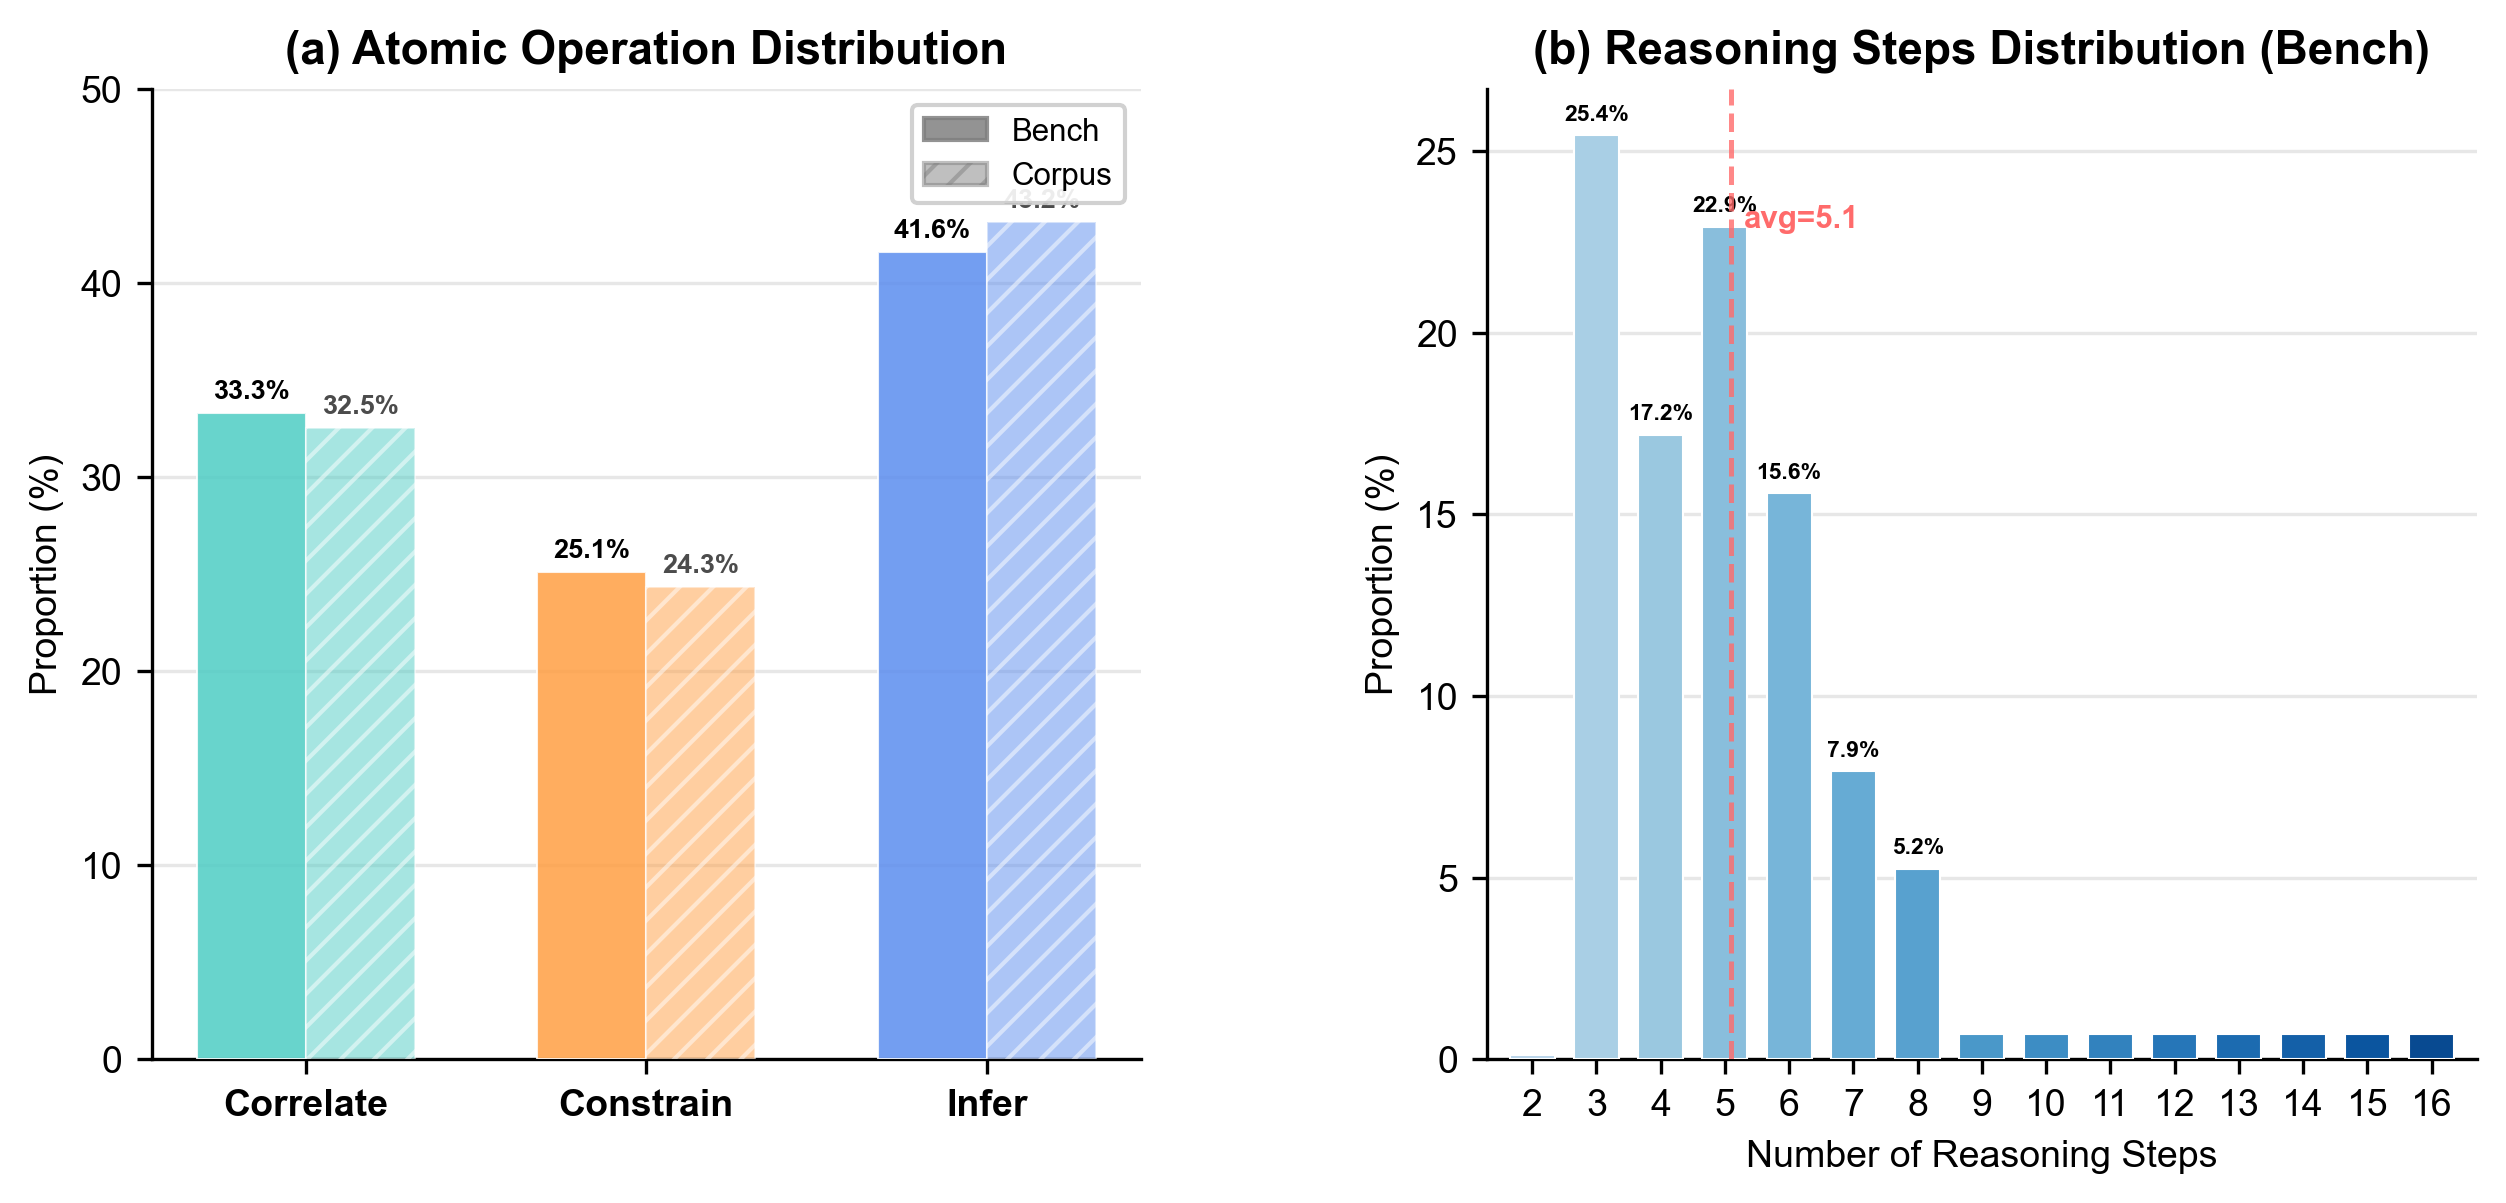
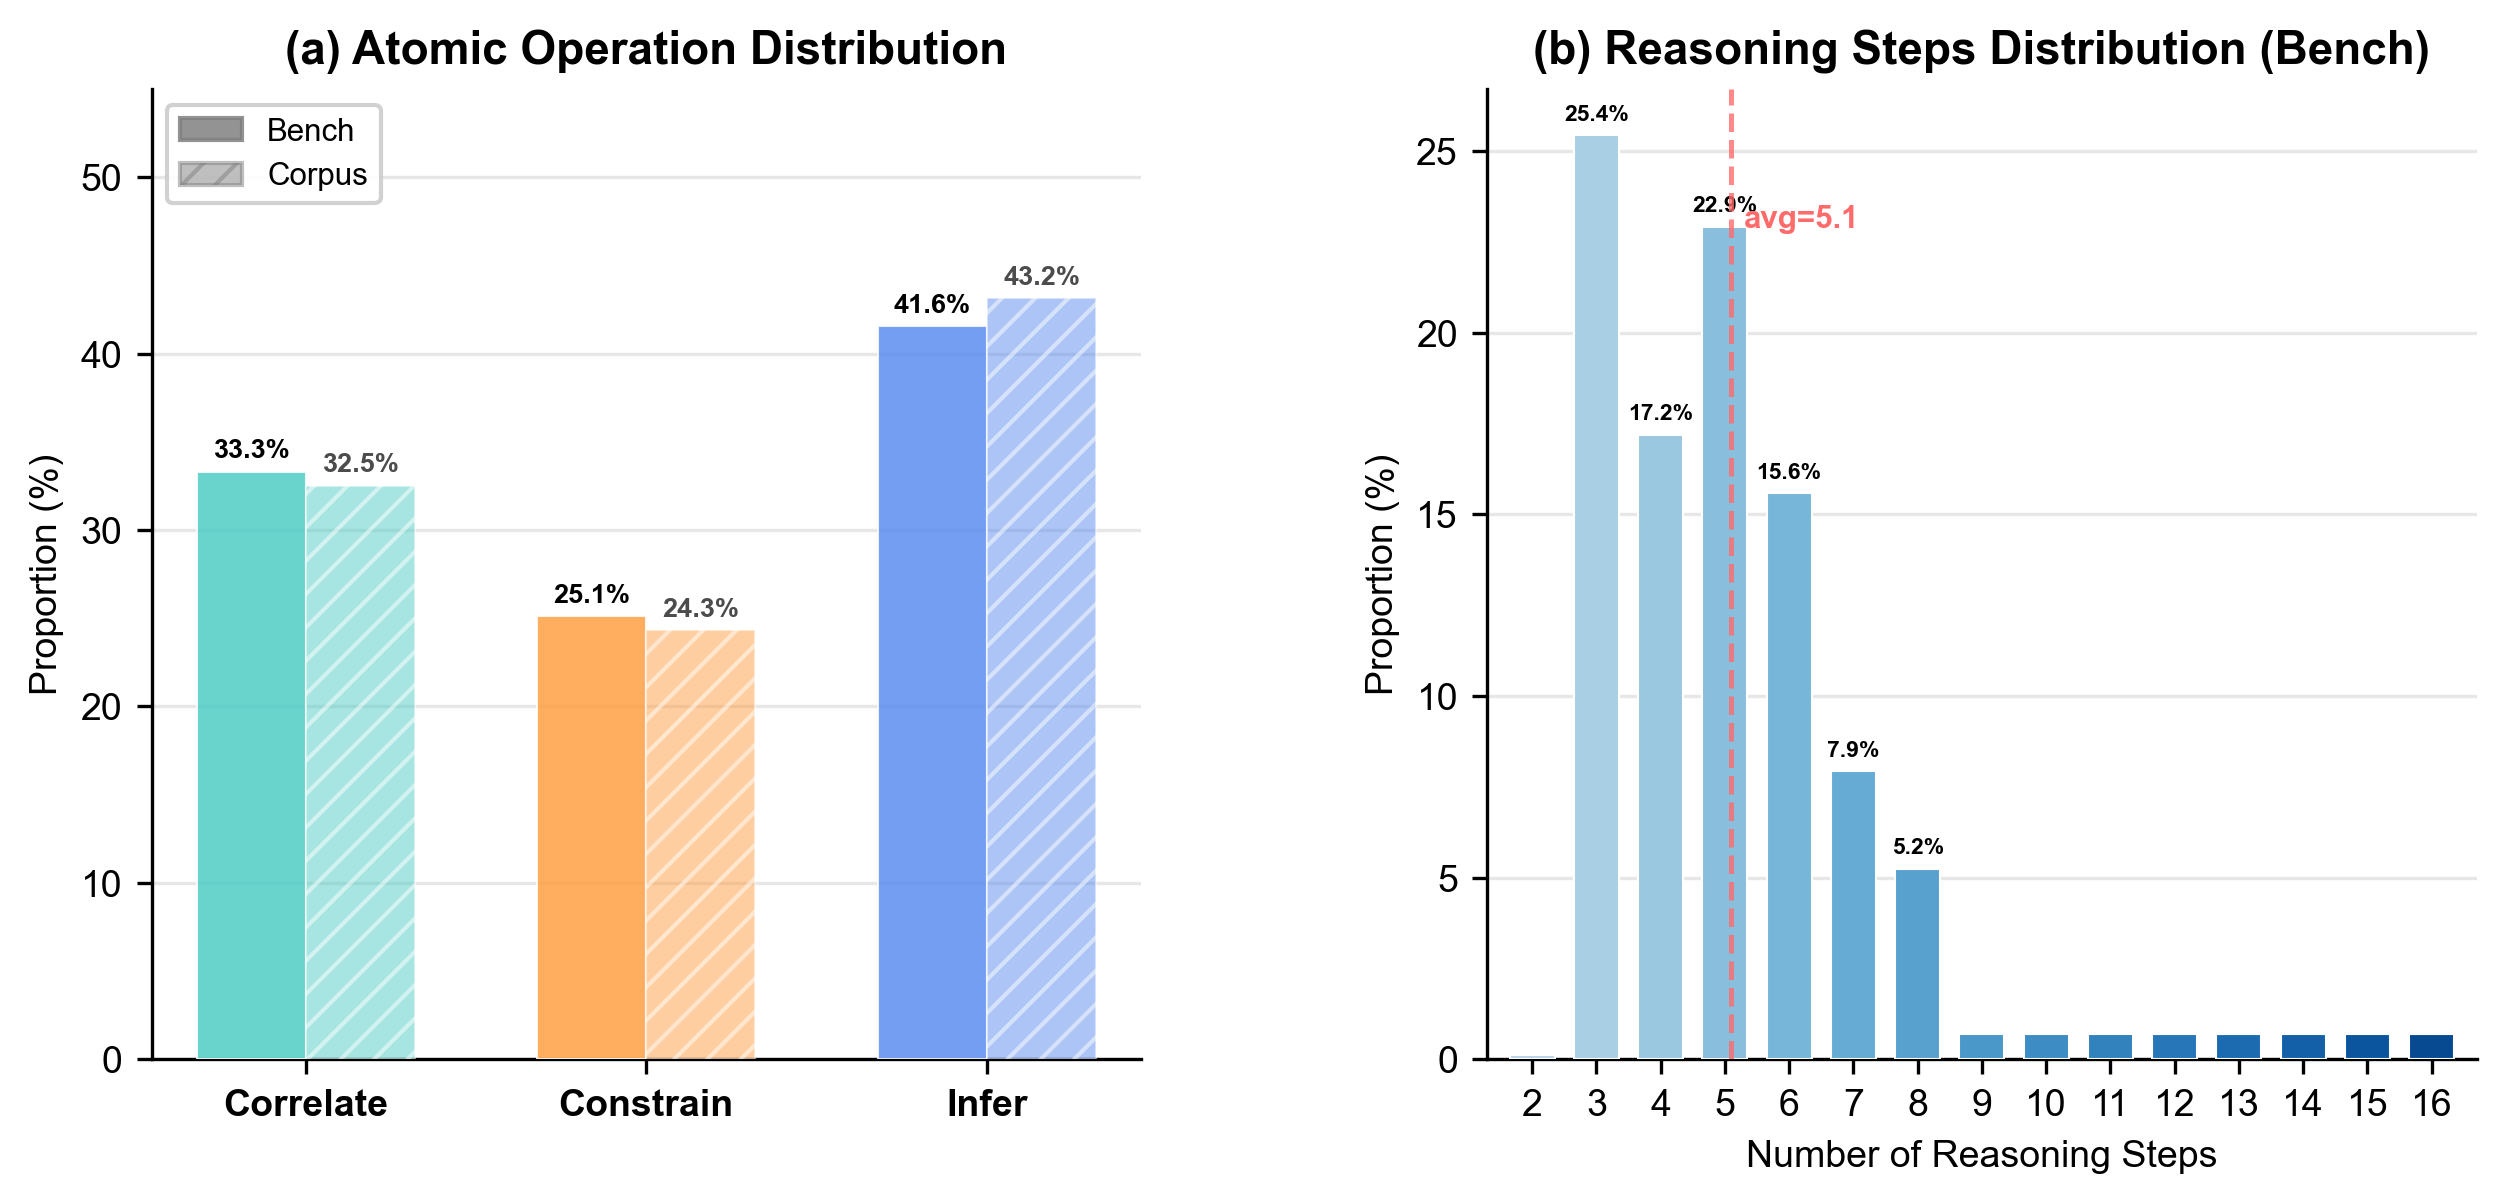
Fix SRT analysis figure legend overlap and center Download section
- Move (a) panel legend from upper-right to upper-left to avoid
  overlapping Infer bar percentage labels
- Increase Y-axis limit from 50 to 55 for extra breathing room
- Change Download & Access grid from 3-col to 2-col centered layout
- Update cache busting parameter for fig_srt_analysis

diff --git a/index.html b/index.html
@@ -586,7 +586,7 @@
     <div class="two-col animate-on-scroll">
       <div>
         <div class="img-showcase">
-          <img src="static/images/fig_srt_analysis.png?v=1775455884" alt="Atomic Operation Analysis" loading="lazy">
+          <img src="static/images/fig_srt_analysis.png?v=1775455887" alt="Atomic Operation Analysis" loading="lazy">
           <p class="img-caption">
             (a) Atomic operation distribution: Infer ~42% &gt; Correlate ~33% &gt; Constrain ~25%.
             (b) Average trace length: 5.1 steps.

diff --git a/static/css/style.css b/static/css/style.css
@@ -624,7 +624,8 @@ body.lang-zh { font-family: 'Noto Sans SC', 'Inter', system-ui, -apple-system, s
 
 /* ---------- Download / Access Section ---------- */
 .access-grid {
-  display: grid; grid-template-columns: repeat(3, 1fr); gap: 28px;
+  display: grid; grid-template-columns: repeat(2, 1fr); gap: 28px;
+  max-width: 700px; margin: 0 auto;
 }
 .access-card {
   background: #fff; border: 1px solid var(--border-light);
